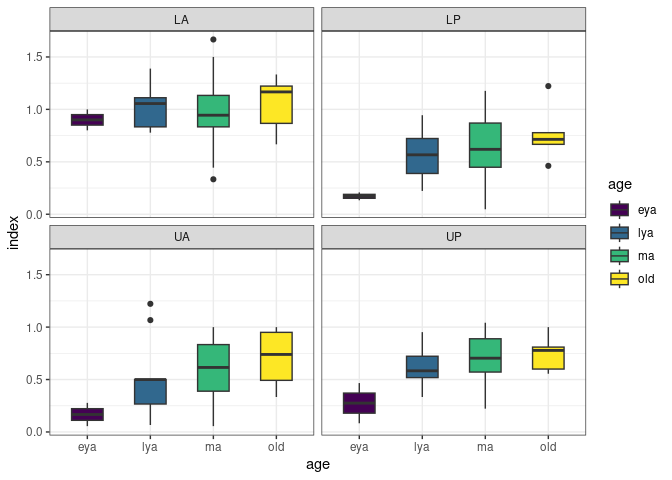
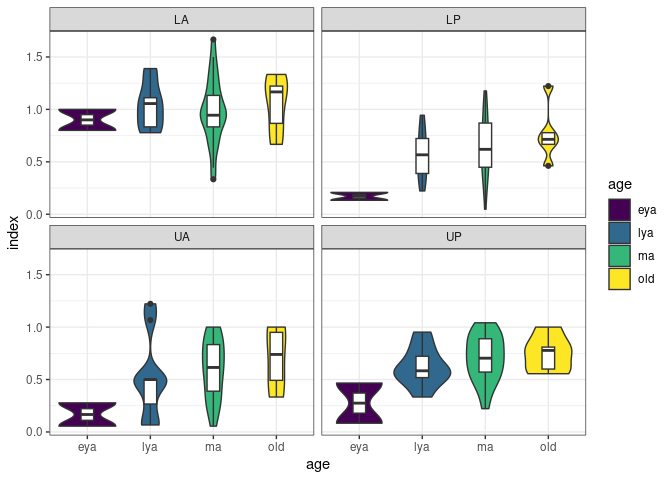
doc: update README

diff --git a/README.md b/README.md
@@ -22,7 +22,9 @@ You can install the development version of teethr like so:
 devtools::install_github("bbartholdy/teethr")
 ```
 
-## Example
+## Examples
+
+### Tidy dental data
 
 First, dental data are combined with demographic data and converted to
 long format with `dental_longer()`. `dental_longer()` also adds
@@ -35,24 +37,53 @@ library(dplyr)
 
 mb11_calculus_long <- mb11_calculus %>% 
   dental_longer(-id, names_sep = "_") %>% # make longer all columns except 'id'
+  dental_join() # add tooth information (position, type, etc.)
   inner_join(mb11_demography, by = "id") # combine with age and sex
 mb11_calculus_long
 ```
 
-    #> # A tibble: 3,936 × 6
-    #>    id    tooth surface score age   sex  
-    #>    <chr> <chr> <chr>   <dbl> <chr> <chr>
-    #>  1 MB131 t11   bucc        0 ma    m    
-    #>  2 MB131 t11   lin         0 ma    m    
-    #>  3 MB131 t11   ip          1 ma    m    
-    #>  4 MB131 t12   bucc        0 ma    m    
-    #>  5 MB131 t12   lin         0 ma    m    
-    #>  6 MB131 t12   ip          1 ma    m    
-    #>  7 MB131 t13   bucc        0 ma    m    
-    #>  8 MB131 t13   lin         0 ma    m    
-    #>  9 MB131 t13   ip          0 ma    m    
-    #> 10 MB131 t14   bucc        1 ma    m    
+    #> Joining with `by = join_by(tooth)`
+    #> # A tibble: 3,936 × 12
+    #>    id    tooth surface score region  position  side  class  type  quadrant age  
+    #>    <chr> <chr> <chr>   <dbl> <chr>   <chr>     <chr> <chr>  <chr> <chr>    <chr>
+    #>  1 MB131 11    bucc        0 maxilla anterior  right incis… i1    UA       ma   
+    #>  2 MB131 11    lin         0 maxilla anterior  right incis… i1    UA       ma   
+    #>  3 MB131 11    ip          1 maxilla anterior  right incis… i1    UA       ma   
+    #>  4 MB131 12    bucc        0 maxilla anterior  right incis… i2    UA       ma   
+    #>  5 MB131 12    lin         0 maxilla anterior  right incis… i2    UA       ma   
+    #>  6 MB131 12    ip          1 maxilla anterior  right incis… i2    UA       ma   
+    #>  7 MB131 13    bucc        0 maxilla anterior  right canine c     UA       ma   
+    #>  8 MB131 13    lin         0 maxilla anterior  right canine c     UA       ma   
+    #>  9 MB131 13    ip          0 maxilla anterior  right canine c     UA       ma   
+    #> 10 MB131 14    bucc        1 maxilla posterior right premo… pm1   UP       ma   
     #> # ℹ 3,926 more rows
+    #> # ℹ 1 more variable: sex <chr>
+
+If you need to switch between tooth notations, you can use
+`dental_recode()`. Currently available notations are FDI, Standards, and
+text.
+
+``` r
+mb11_calculus_long %>%
+  dental_recode(col = tooth, from = "FDI", to = "text") %>%
+  select(id, tooth)
+#> # A tibble: 3,936 × 2
+#>    id    tooth
+#>    <chr> <chr>
+#>  1 MB131 URI1 
+#>  2 MB131 URI1 
+#>  3 MB131 URI1 
+#>  4 MB131 URI2 
+#>  5 MB131 URI2 
+#>  6 MB131 URI2 
+#>  7 MB131 URC1 
+#>  8 MB131 URC1 
+#>  9 MB131 URC1 
+#> 10 MB131 URP1 
+#> # ℹ 3,926 more rows
+```
+
+### Dental calculations
 
 The long-format data can be used to calculate indices, such as the
 dental calculus index using the `calculus_index()` function. The
@@ -63,12 +94,9 @@ done for the whole sample,
 
 ``` r
 mb11_calculus_long %>%
-  dental_join() %>%
   group_by(quadrant) %>% 
   calculus_index()
-#> Joining with `by = join_by(tooth)`
-#> previously defined groups (quadrant) were used. If that was not expected, use
-#> `ungroup()` on the data frame before using the function.
+#> previously defined groups (quadrant) were used. If that was not expected, use `ungroup()` on the data frame before using the function.
 #> # A tibble: 4 × 4
 #>   quadrant     n score_sum index
 #>   <chr>    <int>     <dbl> <dbl>
@@ -82,13 +110,10 @@ or by sex,
 
 ``` r
 mb11_calculus_long %>%
-  dental_join() %>%
   # groups can also be added directly to calculus_index()
   calculus_index(sex, quadrant) %>% 
   select(sex, quadrant, index) # remove unnecessary outputs
-#> Joining with `by = join_by(tooth)`
-#> previously defined groups (sex,quadrant) were used. If that was not expected,
-#> use `ungroup()` on the data frame before using the function.
+#> previously defined groups (sex,quadrant) were used. If that was not expected, use `ungroup()` on the data frame before using the function.
 #> # A tibble: 16 × 3
 #>    sex   quadrant  index
 #>    <chr> <chr>     <dbl>
@@ -114,12 +139,9 @@ or by age and sex.
 
 ``` r
 mb11_calculus_long %>%
-  dental_join() %>%
   calculus_index(sex, age, quadrant) %>% 
   select(sex, quadrant, index) # remove unnecessary outputs
-#> Joining with `by = join_by(tooth)`
-#> previously defined groups (sex,age,quadrant) were used. If that was not
-#> expected, use `ungroup()` on the data frame before using the function.
+#> previously defined groups (sex,age,quadrant) were used. If that was not expected, use `ungroup()` on the data frame before using the function.
 #> Warning in dental_index(., score = {: 1 rows removed because of no teeth
 #> present in groupings.
 #> # A tibble: 39 × 3
@@ -138,29 +160,8 @@ mb11_calculus_long %>%
 #> # ℹ 29 more rows
 ```
 
-``` r
-library(ggplot2)
-mb11_calculus_long %>% 
-  dental_join() %>%
-  calculus_index(id, age, quadrant) %>% 
-  #filter(quadrant == "UP") %>% 
-  ggplot(aes(x = age, y = index, fill = age)) +
-    #geom_violin(aes(fill = sex)) +
-    geom_boxplot(width = 0.5) +
-    scale_fill_viridis_d() +
-    facet_wrap(~ quadrant) +
-    theme_bw()
-#> Joining with `by = join_by(tooth)`
-#> previously defined groups (id,age,quadrant) were used. If that was not
-#> expected, use `ungroup()` on the data frame before using the function.
-#> Warning in dental_index(., score = {: 1 rows removed because of no teeth
-#> present in groupings.
-```
-
-<img src="man/figures/README-calc-plot-1.png" width="100%" />
-
-Dental caries ratios can be calculated using the `caries_ratio`
-function.
+Dental caries ratios can be calculated using the `count_caries()` and
+`dental_ratio()` functions.
 
 ``` r
 mb11_caries_long <- mb11_caries %>% 
@@ -168,44 +169,61 @@ mb11_caries_long <- mb11_caries %>%
   dental_join()
 #> Joining with `by = join_by(tooth)`
 
-mb11_caries_long %>% 
-  count_caries(caries = score, no_lesion = "none") %>%
-  group_by(type) %>% 
+caries_ratios <- mb11_caries_long %>% 
+  count_caries(caries = score, no_lesion = "none") %>% # convert location to lesion count
+  group_by(tooth) %>% 
   dental_ratio(count = caries_count)
-#> previously defined groups (type) were used. If that was not expected, use `ungroup()` on the data frame before using the function.
-#> # A tibble: 8 × 4
-#>   type      n count  ratio
-#>   <chr> <int> <dbl>  <dbl>
-#> 1 c       140    14 0.1   
-#> 2 i1      123     8 0.0650
-#> 3 i2      130     7 0.0538
-#> 4 m1      117    32 0.274 
-#> 5 m2      101    33 0.327 
-#> 6 m3       88    23 0.261 
-#> 7 pm1     140    14 0.1   
-#> 8 pm2     111    18 0.162
+#> previously defined groups (tooth) were used. If that was not expected, use `ungroup()` on the data frame before using the function.
+caries_ratios
+#> # A tibble: 32 × 4
+#>    tooth     n count  ratio
+#>    <chr> <int> <dbl>  <dbl>
+#>  1 11       35     4 0.114 
+#>  2 12       31     4 0.129 
+#>  3 13       35     7 0.2   
+#>  4 14       34     3 0.0882
+#>  5 15       23     5 0.217 
+#>  6 16       32     7 0.219 
+#>  7 17       25     7 0.28  
+#>  8 18       22     9 0.409 
+#>  9 21       28     2 0.0714
+#> 10 22       26     2 0.0769
+#> # ℹ 22 more rows
 ```
 
-The package also facilitates working with the {tidyverse}.
+### Dental plotting
+
+A plot can be created for dental calculus indices per quadrant
 
 ``` r
-# count number of teeth per individual
-mb11_caries_long %>% 
-  remove_missing(vars = "score") %>% 
-  count(id)
-#> Warning: Removed 362 rows containing missing values.
-#> # A tibble: 41 × 2
-#>    id        n
-#>    <chr> <int>
-#>  1 MB107    24
-#>  2 MB116    20
-#>  3 MB117    21
-#>  4 MB120    29
-#>  5 MB121    27
-#>  6 MB131    24
-#>  7 MB158    29
-#>  8 MB163    24
-#>  9 MB18     29
-#> 10 MB180    24
-#> # ℹ 31 more rows
+library(ggplot2)
+mb11_calculus_long %>% 
+  calculus_index(id, age, quadrant) %>% 
+  ggplot(aes(x = age, y = index)) +
+    geom_violin(aes(fill = age)) +
+    geom_boxplot(width = 0.2) +
+    scale_fill_viridis_d() +
+    facet_wrap(~ quadrant) +
+    theme_bw()
+#> previously defined groups (id,age,quadrant) were used. If that was not expected, use `ungroup()` on the data frame before using the function.
+#> Warning in dental_index(., score = {: 1 rows removed because of no teeth
+#> present in groupings.
 ```
+
+<img src="man/figures/README-calc-plot-1.png" width="100%" />
+
+And the built-in `dental_arcade_mapping` data frame can be used to map
+teeth to `geom_sf()` and create fun plots like this one:
+
+``` r
+library(sf)
+#> Linking to GEOS 3.10.2, GDAL 3.4.1, PROJ 8.2.1; sf_use_s2() is TRUE
+caries_ratios %>%
+  dental_recode(tooth, "FDI", "text") %>% # notation needs to be text
+  left_join(as_tibble(dental_arcade_mapping), by = "tooth") %>%
+  ggplot(aes(fill = ratio, geometry = geometry)) +
+    geom_sf() +
+    theme_void()
+```
+
+<img src="man/figures/README-dental-map-1.png" width="100%" />
